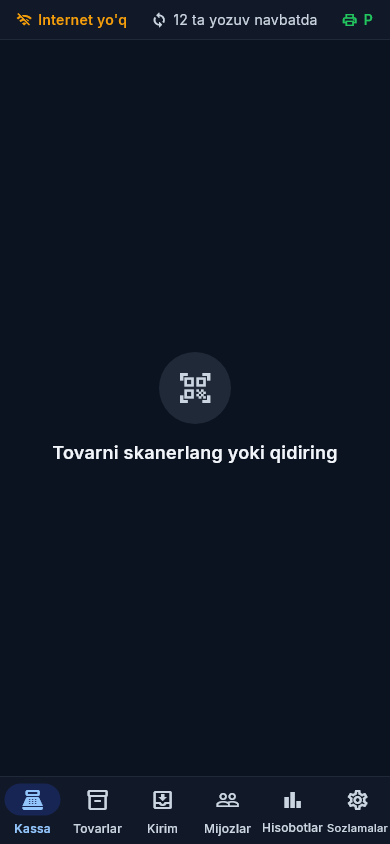
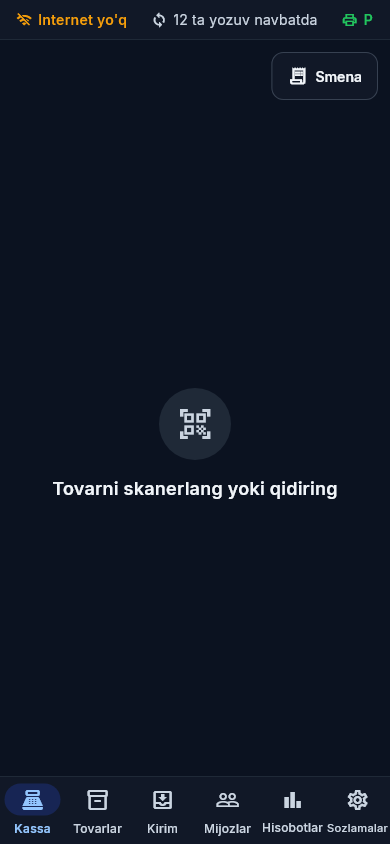
feat(pos): T-041 shift open/close with X/Z report

Changed region(s): [[0.1231, 0.4313, 0.8615, 0.6161], [0.7385, 0.0616, 0.9231, 0.1232]]

diff --git a/docs/STATE.md b/docs/STATE.md
@@ -5,25 +5,13 @@
 > Format qat'iy: bo'limlar nomini o'zgartirma.
 
 ## Joriy vazifa
-- Vazifa: T-041 Smena ochish/yopish
-- Branch: feat/T-041-shifts
-- Boshlangan: 2026-10-14
+- Vazifa: —
+- Branch: —
+- Boshlangan: —
 - Oxirgi yangilanish: 2026-10-14
 
 ## Qadamlar (vazifa ichida)
 <!-- Agent vazifani boshlaganda shu ro'yxatni yozadi va har qadamda belgilaydi -->
-- [x] 1. ShiftService (open/close/report, X/Z) + unit testlar — `apps/pos/lib/data/shifts/shift_service.dart`
-- [x] 2. UI: OpenShiftCard, ShiftScreen (/pos/shift), ShiftReportView, MoneyInput, tarjimalar (uz/uz-Cyrl/ru); analyze toza
-- [x] 3. Widget testlar: smena yopiq → karta; ochish; X hisobot; yopish → farq → Z hisobot — `apps/pos/test/features/shift_test.dart`
-- [x] 4. Golden testlar + skrinshotlar (390×844, 1024×768, 1440×900) — `docs/screenshots/T-041/`
-- [ ] 5. To'liq tekshiruv: `make pos-analyze pos-test ui-test`
-- [ ] 6. PR, CI yashil → squash merge; ROADMAP `[x]`, PROGRESS, STATE tozalash
-
-## Oxirgi bajarilgan ish
-- 4-qadam: `test/goldens/shift_golden_test.dart` (open, x_report, close, z_report × 3 o'lcham × 2 mavzu), app_shell pos golden'lari yangilandi, skrinshotlar `docs/screenshots/T-041/`.
-
-## Keyingi aniq harakat
-- 5-qadam: `make pos-analyze pos-test ui-test` (ildizda). Yashil bo'lsa — PR.
 
 ## Eslatmalar
 <!-- Keyingi sessiya bilishi kerak bo'lgan narsa: topilgan muammo, vaqtinchalik yechim, nima sinab ko'rildi va ishlamadi -->
@@ -37,3 +25,4 @@
 - Flutter widget testida `tester.runAsync` + drift stream osilib qoladi — bazaga yozishni test tanasida to'g'ridan-to'g'ri `await` qil. Osilgan test: `flutter test --timeout 30s -r expanded`.
 - API klient: `make api-clients` (backend sxema → admin TS + Dart: swagger_parser + build_runner `packages/api_client_dart`). Yangi endpoint kerak bo'lsa — `packages/api_client_dart/swagger_parser.yaml` `include_paths` ga qo'sh.
 - Vaqt: ilova kodida `DateTime.now()` emas, `clock.now()` (package:clock) yoki `clockProvider` — widget testlarida soxta vaqt ishlashi uchun.
+- Widget/golden testlarda telefonda (390×844) ekrandan pastdagi tugmani bosishdan oldin `tester.ensureVisible` — aks holda bosish pastki menyuga tushadi (ogohlantirish bilan, xatosiz).

diff --git a/docs/PROGRESS.md b/docs/PROGRESS.md
@@ -162,3 +162,10 @@ Har vazifa yoki sessiya oxirida agent shu faylning oxiriga yozadi:
 - PR: T-040 (squash merge)
 - Qoldi / keyingi qadam: T-041 Smena ochish/yopish. Kassa ekrani (T-042) `ScanListener` + `onTyping` → qidiruv, `PosScanFeedback` + `ScanSignal`.
 - Muammo yoki qaror: tugmani "ushlab, keyin qaytarish" — chunki framework qayta ishlagan klaviatura hodisasi platformaning matn kiritishiga yetib bormaydi; qaytarish `EditableTextState.userUpdateTextEditingValue` orqali (formatter va onChanged ishlaydi). Haqiqiy qurilmada (Windows HID skaner) qo'lda sinash — T-090 chidamlilik testlarida.
+
+## 2026-10-14 — T-041 Smena ochish/yopish
+- Qilindi: `ShiftService` (ochish — oldingi sanalgan naqd taklif qilinadi, yopish — sanalgan naqd va farq, X/Z hisobot: savdolar, to'lov turlari, qaytarishlar, kiritish/chiqarish, qarz to'lovlari, kutilgan naqd; outbox `shift.opened`/`shift.closed`), kassa ekrani smena yopiq bo'lsa "Smenani oching" kartasi (savdo yo'q), `/pos/shift` — X hisobot, yopish oynasi (farq darhol: ortiqcha/kam), Z hisobot. `MoneyInput` (katta summa + ekran klaviaturasi `00`, fizik klaviatura). Holat qatoridagi smena belgisi — shu qurilma smenasi.
+- Testlar: apps/pos 211 (+34): ShiftService unit testlari (Z raqamlari savdolar bilan mos), widget testlari (ochish, taklif, X hisobot, yopish → kam, bekor qilish), golden'lar (ochish, X, yopish, Z × 3 o'lcham × 2 mavzu). Skrinshotlar `docs/screenshots/T-041/`, qobiq — `T-033/` yangilandi.
+- PR: T-041 (squash merge)
+- Qoldi / keyingi qadam: T-042 Kassa ekrani — savat. Z hisobot chekini chop etish — T-044 (tugma hozircha o'chiq); pul kiritish/chiqarish UI — T-046.
+- Muammo yoki qaror: uzilishdan tiklandi — UI qadami commit qilinmagan edi, analyze xatolari tuzatildi. `MoneyInput` bir kadr ichida kelgan bir nechta tugmada raqam yo'qotardi (qiymat faqat ota qayta chizganda yangilanardi) — ichki holat bilan tuzatildi.

diff --git a/docs/ROADMAP.md b/docs/ROADMAP.md
@@ -143,7 +143,7 @@ Spec'lar: `barcode.md`, `pos-screen.md`, `printing.md`, `shifts.md`.
 - **Qabul:** unit testlar: tez kiritish → shtrix-kod hodisasi; sekin qo'lda yozish → oddiy matn; vaznli EAN-13 to'g'ri ajratiladi; EAN-13/EAN-8/UPC nazorat raqami tekshiriladi.
 - **Bog'liq:** T-006
 
-### [ ] T-041 Smena ochish/yopish
+### [x] T-041 Smena ochish/yopish
 - **Bajarish:** smena ochilmaguncha savdo yo'q; ochishda boshlang'ich naqd; yopishda sanalgan naqd, farq, X/Z hisobot (ekran + chek).
 - **Qabul:** widget testlari; Z hisobot raqamlari savdolar bilan mos.
 - **Bog'liq:** T-034
